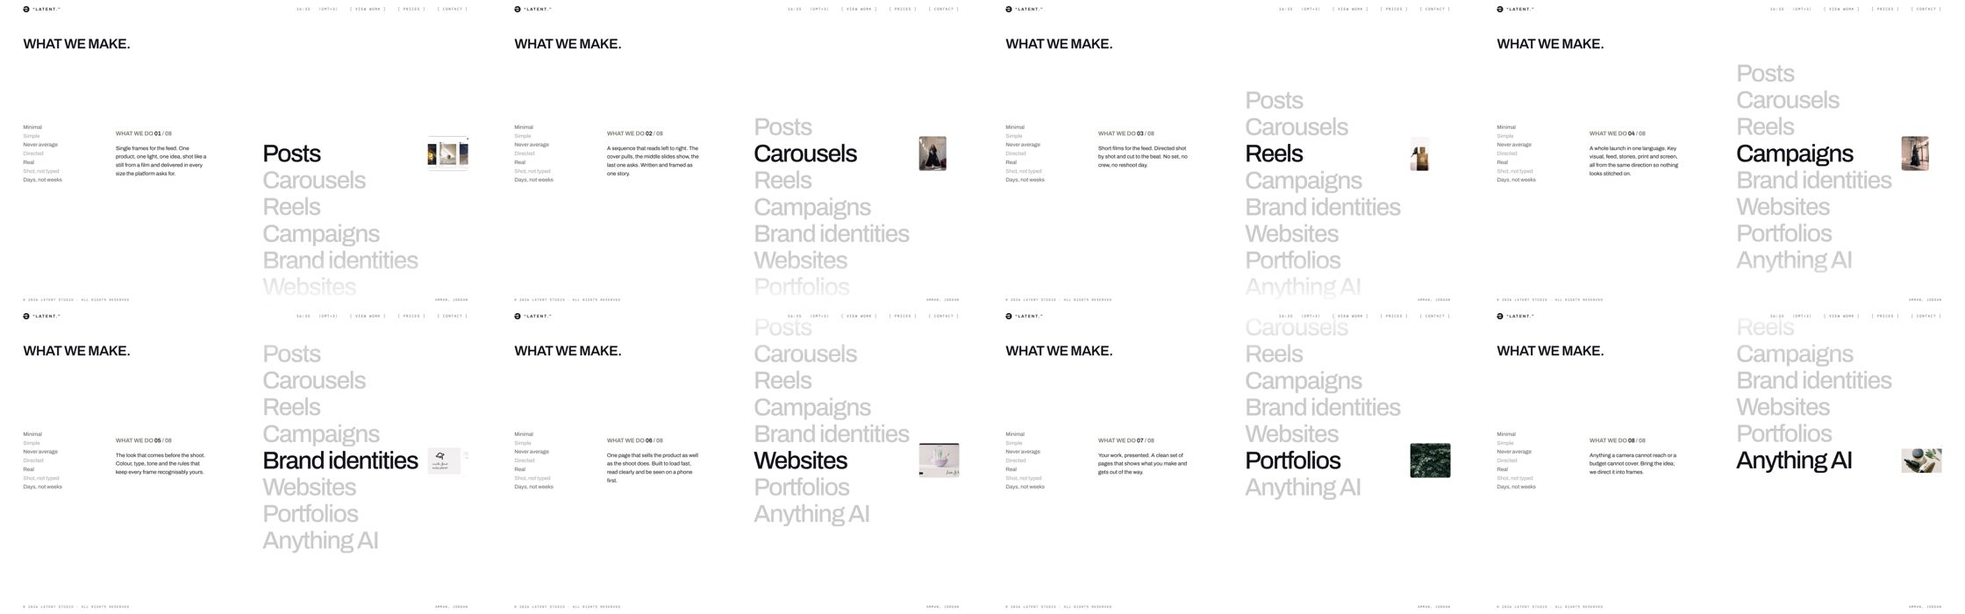
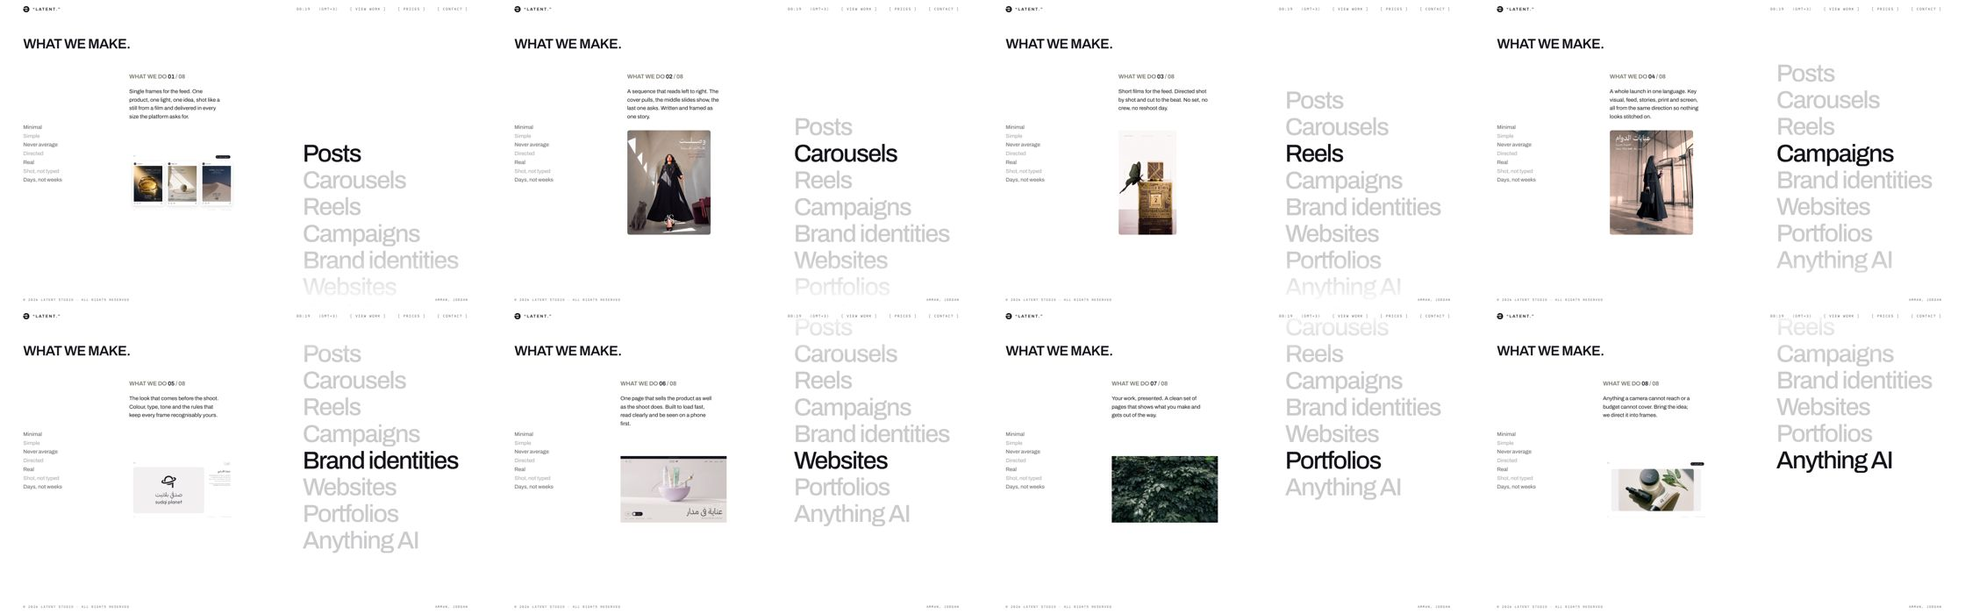
E: list pictures whole under the description on every screen; the wall in the site's mechanisms, marks in ink rising through masks
Claude-Session: https://claude.ai/code/session_0142D8cuVtdJreCuNyu9fMo2

diff --git a/latent-v3e/index.html b/latent-v3e/index.html
@@ -2588,22 +2588,42 @@ html.pg-snap{scroll-snap-type:y proximity}
 
 /* we worked for: the wall of marks */
 .lw{width:100%;margin-top:clamp(6px,1vh,12px)}
-.lw-filters{display:flex;flex-wrap:wrap;gap:6px clamp(16px,2.2vw,30px);margin:0 0 clamp(18px,3vh,30px)}
+.lw-filters{display:flex;flex-wrap:wrap;gap:6px clamp(16px,2.2vw,30px);margin:0 0 clamp(14px,2.4vh,24px)}
 .lw-f{-webkit-appearance:none;appearance:none;background:none;border:0;padding:8px 0;margin:0;cursor:pointer;position:relative;font-family:"IBM Plex Mono",monospace;font-size:11px;letter-spacing:.14em;text-transform:uppercase;color:var(--stone);transition:color .3s ease}
 .lw-f::after{content:'';position:absolute;left:0;right:0;bottom:4px;height:1px;background:var(--ink);transform:scaleX(0);transform-origin:0 50%;transition:transform .45s cubic-bezier(.2,.8,.2,1)}
 .lw-f:hover,.lw-f.on{color:var(--ink)}
 .lw-f.on::after{transform:scaleX(1)}
 .lw-f:focus-visible{outline:2px solid var(--ink);outline-offset:2px}
-.lw-grid{display:grid;grid-template-columns:repeat(6,minmax(0,1fr));border-top:1px solid rgba(20,20,26,.14);border-left:1px solid rgba(20,20,26,.14)}
-.lw-cell{display:flex;align-items:center;justify-content:center;aspect-ratio:1.35;min-width:0;padding:clamp(18px,2.2vw,34px);border-right:1px solid rgba(20,20,26,.14);border-bottom:1px solid rgba(20,20,26,.14);text-decoration:none;color:var(--ink);background:transparent;transition:background .35s ease}
-.lw-cell img{display:block;max-width:100%;max-height:100%;width:auto;height:auto;object-fit:contain;filter:grayscale(1);opacity:.5;transition:opacity .35s ease,filter .35s ease,transform .6s cubic-bezier(.2,.8,.2,1)}
-.lw-cell:hover img,.lw-cell:focus-visible img{opacity:1;filter:grayscale(0);transform:scale(1.04)}
+.lw-grid{display:grid;grid-template-columns:repeat(3,minmax(0,1fr));column-gap:clamp(18px,3vw,48px);border-top:1px solid rgba(20,20,26,.14)}
+.lw-cell{display:flex;flex-direction:column;align-items:flex-start;gap:14px;min-width:0;padding:clamp(26px,4vh,44px) 0 clamp(22px,3.4vh,36px);border-bottom:1px solid rgba(20,20,26,.14);text-decoration:none;color:var(--ink)}
+.lw-cell.rv{opacity:1!important;transform:none!important}
+.lw-mk{display:block;height:clamp(52px,6vw,84px);overflow:hidden;padding-bottom:2px}
+.lw-mk-in{display:block;height:100%;transform:translateY(112%);transition:transform .9s cubic-bezier(.19,1,.22,1)}
+.lw-mk img{display:block;height:100%;width:auto;max-width:min(84%,340px);object-fit:contain;object-position:left center;transition:opacity .3s ease}
+.lw-inkimg{filter:grayscale(1) brightness(.28) contrast(1.4)}
+.lw-t{display:block;overflow:hidden;font-family:"IBM Plex Mono",monospace;font-size:11px;letter-spacing:.14em;text-transform:uppercase;line-height:1.5;color:var(--stone)}
+.lw-t b{font-weight:500;color:var(--ink)}
+.lw-t2{margin-top:-8px}
+.lw-t-in{display:block;transform:translateY(112%);transition:transform .8s cubic-bezier(.19,1,.22,1) .08s}
+.lw-t2 .lw-t-in{transition-delay:.16s}
+.lw-cell.in .lw-mk-in,.lw-cell.in .lw-t-in{transform:none}
+.lw-cell.out .lw-mk-in,.lw-cell.out .lw-t-in{transform:translateY(-112%);transition-duration:.5s}
+.lw-cell.in .lw-mk-in{transition-delay:calc(var(--k,0) * .07s)}
+.lw-cell.in .lw-t-in{transition-delay:calc(.08s + var(--k,0) * .07s)}
+.lw-cell.in .lw-t2 .lw-t-in{transition-delay:calc(.16s + var(--k,0) * .07s)}
+a.lw-cell:hover .lw-mk img{opacity:.55}
+a.lw-cell:hover .lw-t b{color:var(--marrow)}
 .lw-cell:focus-visible{outline:2px solid var(--ink);outline-offset:-2px}
 .lw-cell.off{display:none}
-.lw-cell.in{transition-delay:calc(.15s + var(--k,0) * .06s)}
-@media(max-width:820px){.lw-grid{grid-template-columns:repeat(2,minmax(0,1fr))}.lw-cell{aspect-ratio:1.3;padding:22px}.lw-filters{gap:4px 16px}}
+@media(max-width:820px){.lw-grid{grid-template-columns:repeat(2,minmax(0,1fr));column-gap:18px}.lw-cell{padding:22px 0 18px;gap:12px}.lw-mk{height:44px}.lw-mk img{max-width:92%}.lw-filters{gap:4px 16px}}
+@media (prefers-reduced-motion:reduce){.lw-mk-in,.lw-t-in{transform:none!important;transition:none!important}}
 
 @media(max-width:820px){.foot{font-size:11px}html,body{overflow-x:clip}}
+
+/* the picture of the bright item sits under its description, whole, at its own ratio, on every screen */
+.td-thumb{display:none!important}
+@media(min-width:821px){.td-pv{display:block;grid-row:2;grid-column:1;margin-top:clamp(18px,3vh,32px);height:clamp(160px,34vh,360px);width:auto;max-width:100%;aspect-ratio:var(--ar,4/5);border-radius:6px;overflow:hidden;background:transparent;opacity:0;transform:translateY(8px) scale(.96);transition:opacity .45s ease,transform .55s cubic-bezier(.2,.8,.2,1)}.td-pv.in{opacity:1;transform:none}.td-pv img{width:100%;height:100%;object-fit:contain;object-position:left center;display:block}}
+@media(max-width:820px){.td-pv{background:transparent}.td-pv img{object-fit:contain;object-position:left center}}
 </style>
 </head>
 <body>
@@ -2706,14 +2726,14 @@ html.pg-snap{scroll-snap-type:y proximity}
       <div class="td-grid">
         <div class="td-quote"><div class="td-desc js-td-desc on"><p class="td-mono kb-s">What we do <b>01</b> / 08</p><p class="td-q">Single frames for the feed. One product, one light, one idea, shot like a still from a film and delivered in every size the platform asks for.</p></div><div class="td-desc js-td-desc"><p class="td-mono kb-s">What we do <b>02</b> / 08</p><p class="td-q">A sequence that reads left to right. The cover pulls, the middle slides show, the last one asks. Written and framed as one story.</p></div><div class="td-desc js-td-desc"><p class="td-mono kb-s">What we do <b>03</b> / 08</p><p class="td-q">Short films for the feed. Directed shot by shot and cut to the beat. No set, no crew, no reshoot day.</p></div><div class="td-desc js-td-desc"><p class="td-mono kb-s">What we do <b>04</b> / 08</p><p class="td-q">A whole launch in one language. Key visual, feed, stories, print and screen, all from the same direction so nothing looks stitched on.</p></div><div class="td-desc js-td-desc"><p class="td-mono kb-s">What we do <b>05</b> / 08</p><p class="td-q">The look that comes before the shoot. Colour, type, tone and the rules that keep every frame recognisably yours.</p></div><div class="td-desc js-td-desc"><p class="td-mono kb-s">What we do <b>06</b> / 08</p><p class="td-q">One page that sells the product as well as the shoot does. Built to load fast, read clearly and be seen on a phone first.</p></div><div class="td-desc js-td-desc"><p class="td-mono kb-s">What we do <b>07</b> / 08</p><p class="td-q">Your work, presented. A clean set of pages that shows what you make and gets out of the way.</p></div><div class="td-desc js-td-desc"><p class="td-mono kb-s">What we do <b>08</b> / 08</p><p class="td-q">Anything a camera cannot reach or a budget cannot cover. Bring the idea; we direct it into frames.</p></div></div>
         <div class="td-list"><div class="td-items">
-        <div class="td-item js-td-item on" data-i="0"><span class="td-name">Posts</span><span class="td-thumb" style="--ar:1334/750"><img fetchpriority="low" src="media/62-5c561bec59.jpg" alt="" loading="lazy" decoding="async"></span></div>
-        <div class="td-item js-td-item" data-i="1"><span class="td-name">Carousels</span><span class="td-thumb" style="--ar:4/5"><img fetchpriority="low" src="media/70-2e601fd268.jpg" alt="" loading="lazy" decoding="async"></span></div>
-        <div class="td-item js-td-item" data-i="2"><span class="td-name">Reels</span><span class="td-thumb" style="--ar:900/1612"><img fetchpriority="low" src="media/14-e1887959c2.jpg" alt="" loading="lazy" decoding="async"></span></div>
-        <div class="td-item js-td-item" data-i="3"><span class="td-name">Campaigns</span><span class="td-thumb" style="--ar:4/5"><img fetchpriority="low" src="media/21-7ad07c68ee.jpg" alt="" loading="lazy" decoding="async"></span></div>
-        <div class="td-item js-td-item" data-i="4"><span class="td-name">Brand identities</span><span class="td-thumb" style="--ar:1334/750"><img fetchpriority="low" src="media/59-1fab143a8d.jpg" alt="" loading="lazy" decoding="async"></span></div>
-        <div class="td-item js-td-item" data-i="5"><span class="td-name">Websites</span><span class="td-thumb" style="--ar:16/10"><img fetchpriority="low" src="media/81-53406dc03e.jpg" alt="" loading="lazy" decoding="async"></span></div>
-        <div class="td-item js-td-item" data-i="6"><span class="td-name">Portfolios</span><span class="td-thumb" style="--ar:16/10"><img fetchpriority="low" src="media/86-610f686580.jpg" alt="" loading="lazy" decoding="async"></span></div>
-        <div class="td-item js-td-item" data-i="7"><span class="td-name">Anything AI</span><span class="td-thumb" style="--ar:1334/750"><img fetchpriority="low" src="media/68-15e32d59bb.jpg" alt="" loading="lazy" decoding="async"></span></div>
+        <div class="td-item js-td-item on" data-i="0"><span class="td-name">Posts</span><span class="td-thumb" style="--ar:1334/750;--arn:1.7787"><img fetchpriority="low" src="media/62-5c561bec59.jpg" alt="" loading="lazy" decoding="async"></span></div>
+        <div class="td-item js-td-item" data-i="1"><span class="td-name">Carousels</span><span class="td-thumb" style="--ar:4/5;--arn:0.8000"><img fetchpriority="low" src="media/70-2e601fd268.jpg" alt="" loading="lazy" decoding="async"></span></div>
+        <div class="td-item js-td-item" data-i="2"><span class="td-name">Reels</span><span class="td-thumb" style="--ar:900/1612;--arn:0.5583"><img fetchpriority="low" src="media/14-e1887959c2.jpg" alt="" loading="lazy" decoding="async"></span></div>
+        <div class="td-item js-td-item" data-i="3"><span class="td-name">Campaigns</span><span class="td-thumb" style="--ar:4/5;--arn:0.8000"><img fetchpriority="low" src="media/21-7ad07c68ee.jpg" alt="" loading="lazy" decoding="async"></span></div>
+        <div class="td-item js-td-item" data-i="4"><span class="td-name">Brand identities</span><span class="td-thumb" style="--ar:1334/750;--arn:1.7787"><img fetchpriority="low" src="media/59-1fab143a8d.jpg" alt="" loading="lazy" decoding="async"></span></div>
+        <div class="td-item js-td-item" data-i="5"><span class="td-name">Websites</span><span class="td-thumb" style="--ar:16/10;--arn:1.6000"><img fetchpriority="low" src="media/81-53406dc03e.jpg" alt="" loading="lazy" decoding="async"></span></div>
+        <div class="td-item js-td-item" data-i="6"><span class="td-name">Portfolios</span><span class="td-thumb" style="--ar:16/10;--arn:1.6000"><img fetchpriority="low" src="media/86-610f686580.jpg" alt="" loading="lazy" decoding="async"></span></div>
+        <div class="td-item js-td-item" data-i="7"><span class="td-name">Anything AI</span><span class="td-thumb" style="--ar:1334/750;--arn:1.7787"><img fetchpriority="low" src="media/68-15e32d59bb.jpg" alt="" loading="lazy" decoding="async"></span></div>
         </div></div>
         <div class="td-side"><span>Minimal</span><span>Simple</span><span>Never average</span><span>Directed</span><span>Real</span><span>Shot, not typed</span><span>Days, not weeks</span></div>
       </div>
@@ -2780,7 +2800,7 @@ html.pg-snap{scroll-snap-type:y proximity}
 <section class="sec light cf js-cf js-path ow-sec" id="ourwork">
   <div class="inner cf-in cf-short ow-in">
     <h2 class="cf-h js-words">We worked for.</h2>
-    <p class="cf-p js-words">Brands in Jordan, Saudi Arabia and the Emirates that trust us with their identity, their feed and their site, grouped by field.</p>
+    <p class="cf-p js-words">Brands in Jordan, Saudi Arabia and the Emirates that trust us with their identity, their feed and their site.</p>
     <div class="lw js-lw">
       <div class="lw-filters rv" style="--k:0">
       <button type="button" class="lw-f on js-lw-f" data-cat="all">All</button>
@@ -2791,12 +2811,36 @@ html.pg-snap{scroll-snap-type:y proximity}
       <button type="button" class="lw-f js-lw-f" data-cat="food">Food & drink</button>
       </div>
       <div class="lw-grid js-lw-grid">
-      <a class="lw-cell rv js-lw-cell" data-cat="fashion" style="--k:1" href="https://asabaya.com" target="_blank" rel="noopener" title="AS Abaya"><img src="media/96-ea0aa009dd.png" alt="AS Abaya" loading="lazy" decoding="async"></a>
-      <a class="lw-cell rv js-lw-cell" data-cat="beauty" style="--k:2" href="https://sudqiplanet.com" target="_blank" rel="noopener" title="Sudqi Planet"><img src="media/97-9be7e791fb.png" alt="Sudqi Planet" loading="lazy" decoding="async"></a>
-      <a class="lw-cell rv js-lw-cell" data-cat="beauty" style="--k:3" href="https://www.atelierrebul.com.tr" target="_blank" rel="noopener" title="Atelier Rebul"><img src="media/98-9341a842da.png" alt="Atelier Rebul" loading="lazy" decoding="async"></a>
-      <a class="lw-cell rv js-lw-cell" data-cat="trade" style="--k:4" href="https://buraqalomur.com" target="_blank" rel="noopener" title="Buraq Al Omur"><img src="media/100-ba628bc26e.svg" alt="Buraq Al Omur" loading="lazy" decoding="async"></a>
-      <a class="lw-cell rv js-lw-cell" data-cat="green" style="--k:5" href="https://rawabinaalkhadhraa.com" target="_blank" rel="noopener" title="Rawabina Al Khadraa"><img src="media/101-3054a7e169.svg" alt="Rawabina Al Khadraa" loading="lazy" decoding="async"></a>
-      <div class="lw-cell rv js-lw-cell" data-cat="food" style="--k:6" title="Cube Coffee House"><img src="media/99-fbbf37eca7.png" alt="Cube Coffee House" loading="lazy" decoding="async"></div>
+      <a class="lw-cell rv js-lw-cell" data-cat="fashion" style="--k:0" href="https://asabaya.com" target="_blank" rel="noopener">
+        <span class="lw-mk"><span class="lw-mk-in"><img src="media/96-ea0aa009dd.png" alt="AS Abaya" loading="lazy" decoding="async"></span></span>
+        <span class="lw-t"><span class="lw-t-in"><b>AS Abaya</b></span></span>
+        <span class="lw-t lw-t2"><span class="lw-t-in">Fashion &middot; Riyadh</span></span>
+      </a>
+      <a class="lw-cell rv js-lw-cell" data-cat="beauty" style="--k:1" href="https://sudqiplanet.com" target="_blank" rel="noopener">
+        <span class="lw-mk"><span class="lw-mk-in"><img src="media/97-9be7e791fb.png" alt="Sudqi Planet" loading="lazy" decoding="async"></span></span>
+        <span class="lw-t"><span class="lw-t-in"><b>Sudqi Planet</b></span></span>
+        <span class="lw-t lw-t2"><span class="lw-t-in">Beauty & care &middot; Amman</span></span>
+      </a>
+      <a class="lw-cell rv js-lw-cell" data-cat="beauty" style="--k:2" href="https://www.atelierrebul.com.tr" target="_blank" rel="noopener">
+        <span class="lw-mk"><span class="lw-mk-in"><img src="media/98-9341a842da.png" alt="Atelier Rebul" loading="lazy" decoding="async"></span></span>
+        <span class="lw-t"><span class="lw-t-in"><b>Atelier Rebul</b></span></span>
+        <span class="lw-t lw-t2"><span class="lw-t-in">Beauty & care &middot; Amman</span></span>
+      </a>
+      <a class="lw-cell rv js-lw-cell" data-cat="trade" style="--k:3" href="https://buraqalomur.com" target="_blank" rel="noopener">
+        <span class="lw-mk"><span class="lw-mk-in"><img src="media/100-ba628bc26e.svg" alt="Buraq Al Omur" loading="lazy" decoding="async"></span></span>
+        <span class="lw-t"><span class="lw-t-in"><b>Buraq Al Omur</b></span></span>
+        <span class="lw-t lw-t2"><span class="lw-t-in">Trade & industry &middot; Zarqa</span></span>
+      </a>
+      <a class="lw-cell rv js-lw-cell" data-cat="green" style="--k:4" href="https://rawabinaalkhadhraa.com" target="_blank" rel="noopener">
+        <span class="lw-mk"><span class="lw-mk-in"><img src="media/101-3054a7e169.svg" alt="Rawabina Al Khadraa" loading="lazy" decoding="async" class="lw-inkimg"></span></span>
+        <span class="lw-t"><span class="lw-t-in"><b>Rawabina Al Khadraa</b></span></span>
+        <span class="lw-t lw-t2"><span class="lw-t-in">Landscaping &middot; Riyadh</span></span>
+      </a>
+      <div class="lw-cell rv js-lw-cell" data-cat="food" style="--k:5">
+        <span class="lw-mk"><span class="lw-mk-in"><img src="media/99-fbbf37eca7.png" alt="Cube Coffee House" loading="lazy" decoding="async"></span></span>
+        <span class="lw-t"><span class="lw-t-in"><b>Cube Coffee House</b></span></span>
+        <span class="lw-t lw-t2"><span class="lw-t-in">Food & drink &middot; Amman</span></span>
+      </div>
       </div>
     </div>
   </div>
@@ -4817,13 +4861,13 @@ html.pg-snap{scroll-snap-type:y proximity}
 
 
 
-/* the wall: a filter shows one field's marks; the rest fold away */
+/* the wall: a filter keeps one field's marks; the kept ones rise again in order */
 (function(){
   var w = document.querySelector(".js-lw"); if(!w) return;
   var fs = [].slice.call(w.querySelectorAll(".js-lw-f")), cells = [].slice.call(w.querySelectorAll(".js-lw-cell"));
   fs.forEach(function(f){ f.addEventListener("click", function(){
     var c = f.dataset.cat; fs.forEach(function(g){ g.classList.toggle("on", g === f); });
-    cells.forEach(function(el, k){ var show = c === "all" || el.dataset.cat === c; el.classList.toggle("off", !show); el.classList.remove("in"); });
+    cells.forEach(function(el){ var show = c === "all" || el.dataset.cat === c; el.classList.toggle("off", !show); el.classList.remove("in"); });
     requestAnimationFrame(function(){ requestAnimationFrame(function(){ var n = 0; cells.forEach(function(el){ if(!el.classList.contains("off")){ el.style.setProperty("--k", n++); el.classList.add("in"); } }); }); });
   }); });
 })();

diff --git a/latent-v3-src/e_patch_wall.py b/latent-v3-src/e_patch_wall.py
@@ -1,23 +1,28 @@
-# Our work as a wall of the clients' marks, the way the reference does it but in the site's own manner: the bold line
-# "We worked for.", one quiet sentence, mono filters by field, and a hairline grid of marks in grey that come to ink
-# (and colour) under the pointer; each cell opens the client's site when there is one. Takes the ledger's place inside
+# Our work: "We worked for." A wall of the clients' marks in the site's own manner: marks in ink, each cell's mark,
+# name and field rising through line masks as the scroll reaches it and lifting away as it leaves, hairlines between
+# rows, mono filters by field. Each cell opens the client's site where there is one. Takes the ledger's place inside
 # #ourwork. Idempotent.
 import sys, json
 P='/home/user/main/latent-v3e/index.html'; s=open(P,encoding='utf-8').read()
 if 'js-lw' in s: print('already patched'); sys.exit(0)
 MK=json.load(open('/home/user/main/latent-v3-src/wall_marks.json'))
-ITEMS=[('AS Abaya','fashion','Fashion','https://asabaya.com',MK['abaya']),
-       ('Sudqi Planet','beauty','Beauty & care','https://sudqiplanet.com',MK['sudqi']),
-       ('Atelier Rebul','beauty','Beauty & care','https://www.atelierrebul.com.tr',MK['rebul']),
-       ('Buraq Al Omur','trade','Trade & industry','https://buraqalomur.com',MK['buraq']),
-       ('Rawabina Al Khadraa','green','Landscaping','https://rawabinaalkhadhraa.com',MK['rawabina']),
-       ('Cube Coffee House','food','Food & drink',None,MK['cube'])]
-cats=[]; [cats.append((c,l)) for n,c,l,h,m in ITEMS if (c,l) not in cats]
+ITEMS=[('AS Abaya','fashion','Fashion','Riyadh','https://asabaya.com',MK['abaya'],''),
+       ('Sudqi Planet','beauty','Beauty & care','Amman','https://sudqiplanet.com',MK['sudqi'],''),
+       ('Atelier Rebul','beauty','Beauty & care','Amman','https://www.atelierrebul.com.tr',MK['rebul'],''),
+       ('Buraq Al Omur','trade','Trade & industry','Zarqa','https://buraqalomur.com',MK['buraq'],''),
+       ('Rawabina Al Khadraa','green','Landscaping','Riyadh','https://rawabinaalkhadhraa.com',MK['rawabina'],' lw-ink'),
+       ('Cube Coffee House','food','Food & drink','Amman',None,MK['cube'],'')]
+cats=[]; [cats.append((c,l)) for n,c,l,w,h,m,x in ITEMS if (c,l) not in cats]
 pills='      <button type="button" class="lw-f on js-lw-f" data-cat="all">All</button>\n'+''.join('      <button type="button" class="lw-f js-lw-f" data-cat="%s">%s</button>\n'%(c,l) for c,l in cats)
 cells=''
-for k,(n,c,l,h,m) in enumerate(ITEMS):
+for k,(n,c,l,w,h,m,x) in enumerate(ITEMS):
     tag='a' if h else 'div'; attrs=' href="%s" target="_blank" rel="noopener"'%h if h else ''
-    cells+='      <%s class="lw-cell rv js-lw-cell" data-cat="%s" style="--k:%d"%s title="%s"><img src="%s" alt="%s" loading="lazy" decoding="async"></%s>\n'%(tag,c,k+1,attrs,n,m,n,tag)
+    cells+='''      <%s class="lw-cell rv js-lw-cell" data-cat="%s" style="--k:%d"%s>
+        <span class="lw-mk"><span class="lw-mk-in"><img src="%s" alt="%s" loading="lazy" decoding="async"%s></span></span>
+        <span class="lw-t"><span class="lw-t-in"><b>%s</b></span></span>
+        <span class="lw-t lw-t2"><span class="lw-t-in">%s &middot; %s</span></span>
+      </%s>
+'''%(tag,c,k,attrs,m,n,(' class="lw-inkimg"' if x else ''),n,l,w,tag)
 WALL='''    <div class="lw js-lw">
       <div class="lw-filters rv" style="--k:0">
 %s      </div>
@@ -29,35 +34,50 @@ i=s.index('<section class="sec light cf js-cf js-path ow-sec" id="ourwork">'); j
 a=sec.index('    <div class="pel-root js-pel">'); b=sec.rindex('    </div>\n  </div>\n')+len('    </div>\n')
 sec=sec[:a]+WALL+sec[b:]
 sec=sec.replace('<h2 class="cf-h js-words">Our work.</h2>','<h2 class="cf-h js-words">We worked for.</h2>')
-sec=sec.replace('Things we made for ourselves and for clients, newest first. Open a row for the story and the link.','Brands in Jordan, Saudi Arabia and the Emirates that trust us with their identity, their feed and their site, grouped by field.')
+sec=sec.replace('Things we made for ourselves and for clients, newest first. Open a row for the story and the link.','Brands in Jordan, Saudi Arabia and the Emirates that trust us with their identity, their feed and their site.')
 s=s[:i]+sec+s[j:]
 CSS='''
 /* we worked for: the wall of marks */
 .lw{width:100%;margin-top:clamp(6px,1vh,12px)}
-.lw-filters{display:flex;flex-wrap:wrap;gap:6px clamp(16px,2.2vw,30px);margin:0 0 clamp(18px,3vh,30px)}
+.lw-filters{display:flex;flex-wrap:wrap;gap:6px clamp(16px,2.2vw,30px);margin:0 0 clamp(14px,2.4vh,24px)}
 .lw-f{-webkit-appearance:none;appearance:none;background:none;border:0;padding:8px 0;margin:0;cursor:pointer;position:relative;font-family:"IBM Plex Mono",monospace;font-size:11px;letter-spacing:.14em;text-transform:uppercase;color:var(--stone);transition:color .3s ease}
 .lw-f::after{content:'';position:absolute;left:0;right:0;bottom:4px;height:1px;background:var(--ink);transform:scaleX(0);transform-origin:0 50%;transition:transform .45s cubic-bezier(.2,.8,.2,1)}
 .lw-f:hover,.lw-f.on{color:var(--ink)}
 .lw-f.on::after{transform:scaleX(1)}
 .lw-f:focus-visible{outline:2px solid var(--ink);outline-offset:2px}
-.lw-grid{display:grid;grid-template-columns:repeat(6,minmax(0,1fr));border-top:1px solid rgba(20,20,26,.14);border-left:1px solid rgba(20,20,26,.14)}
-.lw-cell{display:flex;align-items:center;justify-content:center;aspect-ratio:1.35;min-width:0;padding:clamp(18px,2.2vw,34px);border-right:1px solid rgba(20,20,26,.14);border-bottom:1px solid rgba(20,20,26,.14);text-decoration:none;color:var(--ink);background:transparent;transition:background .35s ease}
-.lw-cell img{display:block;max-width:100%;max-height:100%;width:auto;height:auto;object-fit:contain;filter:grayscale(1);opacity:.5;transition:opacity .35s ease,filter .35s ease,transform .6s cubic-bezier(.2,.8,.2,1)}
-.lw-cell:hover img,.lw-cell:focus-visible img{opacity:1;filter:grayscale(0);transform:scale(1.04)}
+.lw-grid{display:grid;grid-template-columns:repeat(3,minmax(0,1fr));column-gap:clamp(18px,3vw,48px);border-top:1px solid rgba(20,20,26,.14)}
+.lw-cell{display:flex;flex-direction:column;align-items:flex-start;gap:14px;min-width:0;padding:clamp(26px,4vh,44px) 0 clamp(22px,3.4vh,36px);border-bottom:1px solid rgba(20,20,26,.14);text-decoration:none;color:var(--ink)}
+.lw-cell.rv{opacity:1!important;transform:none!important}
+.lw-mk{display:block;height:clamp(52px,6vw,84px);overflow:hidden;padding-bottom:2px}
+.lw-mk-in{display:block;height:100%;transform:translateY(112%);transition:transform .9s cubic-bezier(.19,1,.22,1)}
+.lw-mk img{display:block;height:100%;width:auto;max-width:min(84%,340px);object-fit:contain;object-position:left center;transition:opacity .3s ease}
+.lw-inkimg{filter:grayscale(1) brightness(.28) contrast(1.4)}
+.lw-t{display:block;overflow:hidden;font-family:"IBM Plex Mono",monospace;font-size:11px;letter-spacing:.14em;text-transform:uppercase;line-height:1.5;color:var(--stone)}
+.lw-t b{font-weight:500;color:var(--ink)}
+.lw-t2{margin-top:-8px}
+.lw-t-in{display:block;transform:translateY(112%);transition:transform .8s cubic-bezier(.19,1,.22,1) .08s}
+.lw-t2 .lw-t-in{transition-delay:.16s}
+.lw-cell.in .lw-mk-in,.lw-cell.in .lw-t-in{transform:none}
+.lw-cell.out .lw-mk-in,.lw-cell.out .lw-t-in{transform:translateY(-112%);transition-duration:.5s}
+.lw-cell.in .lw-mk-in{transition-delay:calc(var(--k,0) * .07s)}
+.lw-cell.in .lw-t-in{transition-delay:calc(.08s + var(--k,0) * .07s)}
+.lw-cell.in .lw-t2 .lw-t-in{transition-delay:calc(.16s + var(--k,0) * .07s)}
+a.lw-cell:hover .lw-mk img{opacity:.55}
+a.lw-cell:hover .lw-t b{color:var(--marrow)}
 .lw-cell:focus-visible{outline:2px solid var(--ink);outline-offset:-2px}
 .lw-cell.off{display:none}
-.lw-cell.in{transition-delay:calc(.15s + var(--k,0) * .06s)}
-@media(max-width:820px){.lw-grid{grid-template-columns:repeat(2,minmax(0,1fr))}.lw-cell{aspect-ratio:1.3;padding:22px}.lw-filters{gap:4px 16px}}
+@media(max-width:820px){.lw-grid{grid-template-columns:repeat(2,minmax(0,1fr));column-gap:18px}.lw-cell{padding:22px 0 18px;gap:12px}.lw-mk{height:44px}.lw-mk img{max-width:92%}.lw-filters{gap:4px 16px}}
+@media (prefers-reduced-motion:reduce){.lw-mk-in,.lw-t-in{transform:none!important;transition:none!important}}
 '''
 j=s.rfind('</style>'); s=s[:j]+CSS+s[j:]
 JS='''
-/* the wall: a filter shows one field's marks; the rest fold away */
+/* the wall: a filter keeps one field's marks; the kept ones rise again in order */
 (function(){
   var w = document.querySelector(".js-lw"); if(!w) return;
   var fs = [].slice.call(w.querySelectorAll(".js-lw-f")), cells = [].slice.call(w.querySelectorAll(".js-lw-cell"));
   fs.forEach(function(f){ f.addEventListener("click", function(){
     var c = f.dataset.cat; fs.forEach(function(g){ g.classList.toggle("on", g === f); });
-    cells.forEach(function(el, k){ var show = c === "all" || el.dataset.cat === c; el.classList.toggle("off", !show); el.classList.remove("in"); });
+    cells.forEach(function(el){ var show = c === "all" || el.dataset.cat === c; el.classList.toggle("off", !show); el.classList.remove("in"); });
     requestAnimationFrame(function(){ requestAnimationFrame(function(){ var n = 0; cells.forEach(function(el){ if(!el.classList.contains("off")){ el.style.setProperty("--k", n++); el.classList.add("in"); } }); }); });
   }); });
 })();

diff --git a/latent-v3-src/e_patch_td.py b/latent-v3-src/e_patch_td.py
@@ -16,4 +16,16 @@ def row(m):
     body=re.sub(r'(<img fetchpriority="low" src=")[^"]*(")', lambda k:k.group(1)+src+k.group(2), body)
     return '<div class="td-item js-td-item%s" data-i="%d">%s' % (m.group(3), i, body)
 s2,n=re.subn(r'<div class="td-item js-td-item( on)?" data-i="(\d)">(.*?)(?=<div class="td-item js-td-item|\n\s*</div>\s*\n\s*</div>)', lambda m: '<div class="td-item js-td-item%s" data-i="%s">%s' % (m.group(1) or '', m.group(2), re.sub(r'(<img fetchpriority="low" src=")[^"]*(")', lambda k:k.group(1)+PIC[int(m.group(2))][0]+k.group(2), re.sub(r'(<span class="td-thumb" style="--ar:)[^"]*(")', lambda k:k.group(1)+PIC[int(m.group(2))][1]+k.group(2), m.group(3)))), s, flags=re.S)
+import re as _re
+def _arn(m):
+    a,b=m.group(1).split('/'); return '--ar:%s;--arn:%.4f"'%(m.group(1), float(a)/float(b))
+s2=_re.sub(r'(?<=td-thumb" style=")--ar:(\d+/\d+)"', _arn, s2)
+if '/* list thumbs keep their ratio */' not in s2:
+    css='''
+/* the picture of the bright item sits under its description, whole, at its own ratio, on every screen */
+.td-thumb{display:none!important}
+@media(min-width:821px){.td-pv{display:block;grid-row:2;grid-column:1;margin-top:clamp(18px,3vh,32px);height:clamp(160px,34vh,360px);width:auto;max-width:100%;aspect-ratio:var(--ar,4/5);border-radius:6px;overflow:hidden;background:transparent;opacity:0;transform:translateY(8px) scale(.96);transition:opacity .45s ease,transform .55s cubic-bezier(.2,.8,.2,1)}.td-pv.in{opacity:1;transform:none}.td-pv img{width:100%;height:100%;object-fit:contain;object-position:left center;display:block}}
+@media(max-width:820px){.td-pv{background:transparent}.td-pv img{object-fit:contain;object-position:left center}}
+'''
+    j=s2.rfind('</style>'); s2=s2[:j]+css+s2[j:]
 open(P,'w',encoding='utf-8').write(s2); print('td patched', n)
